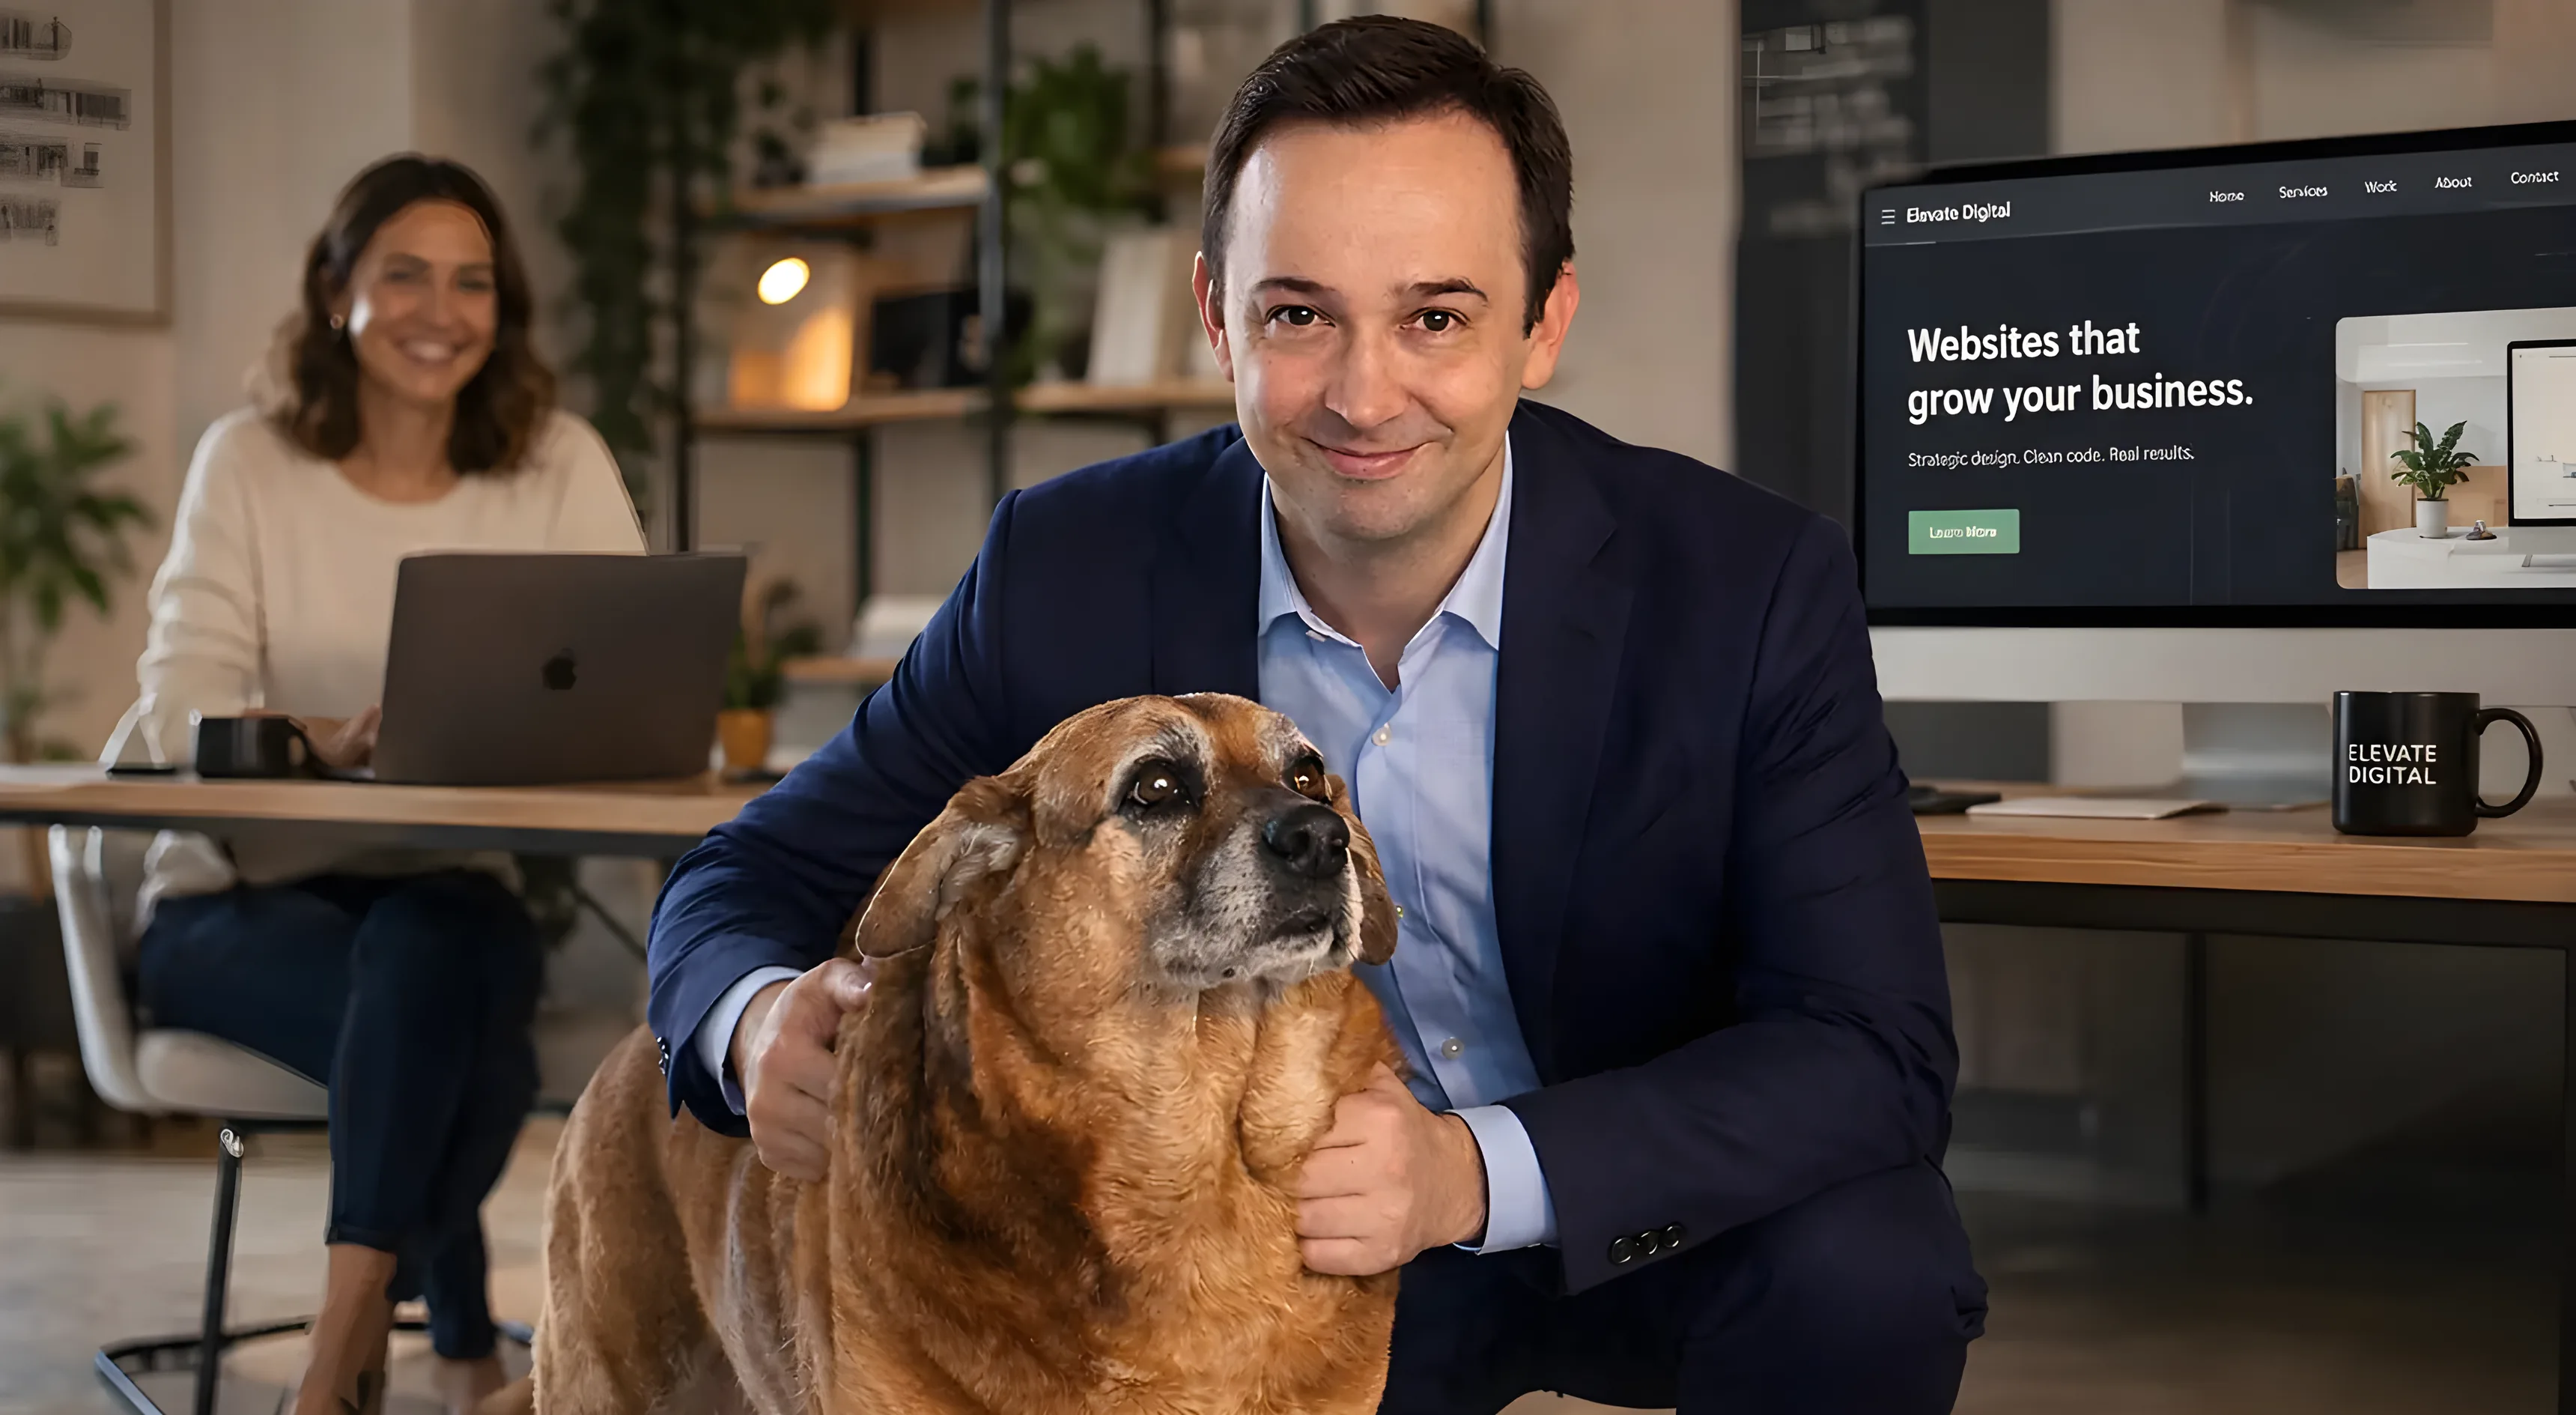
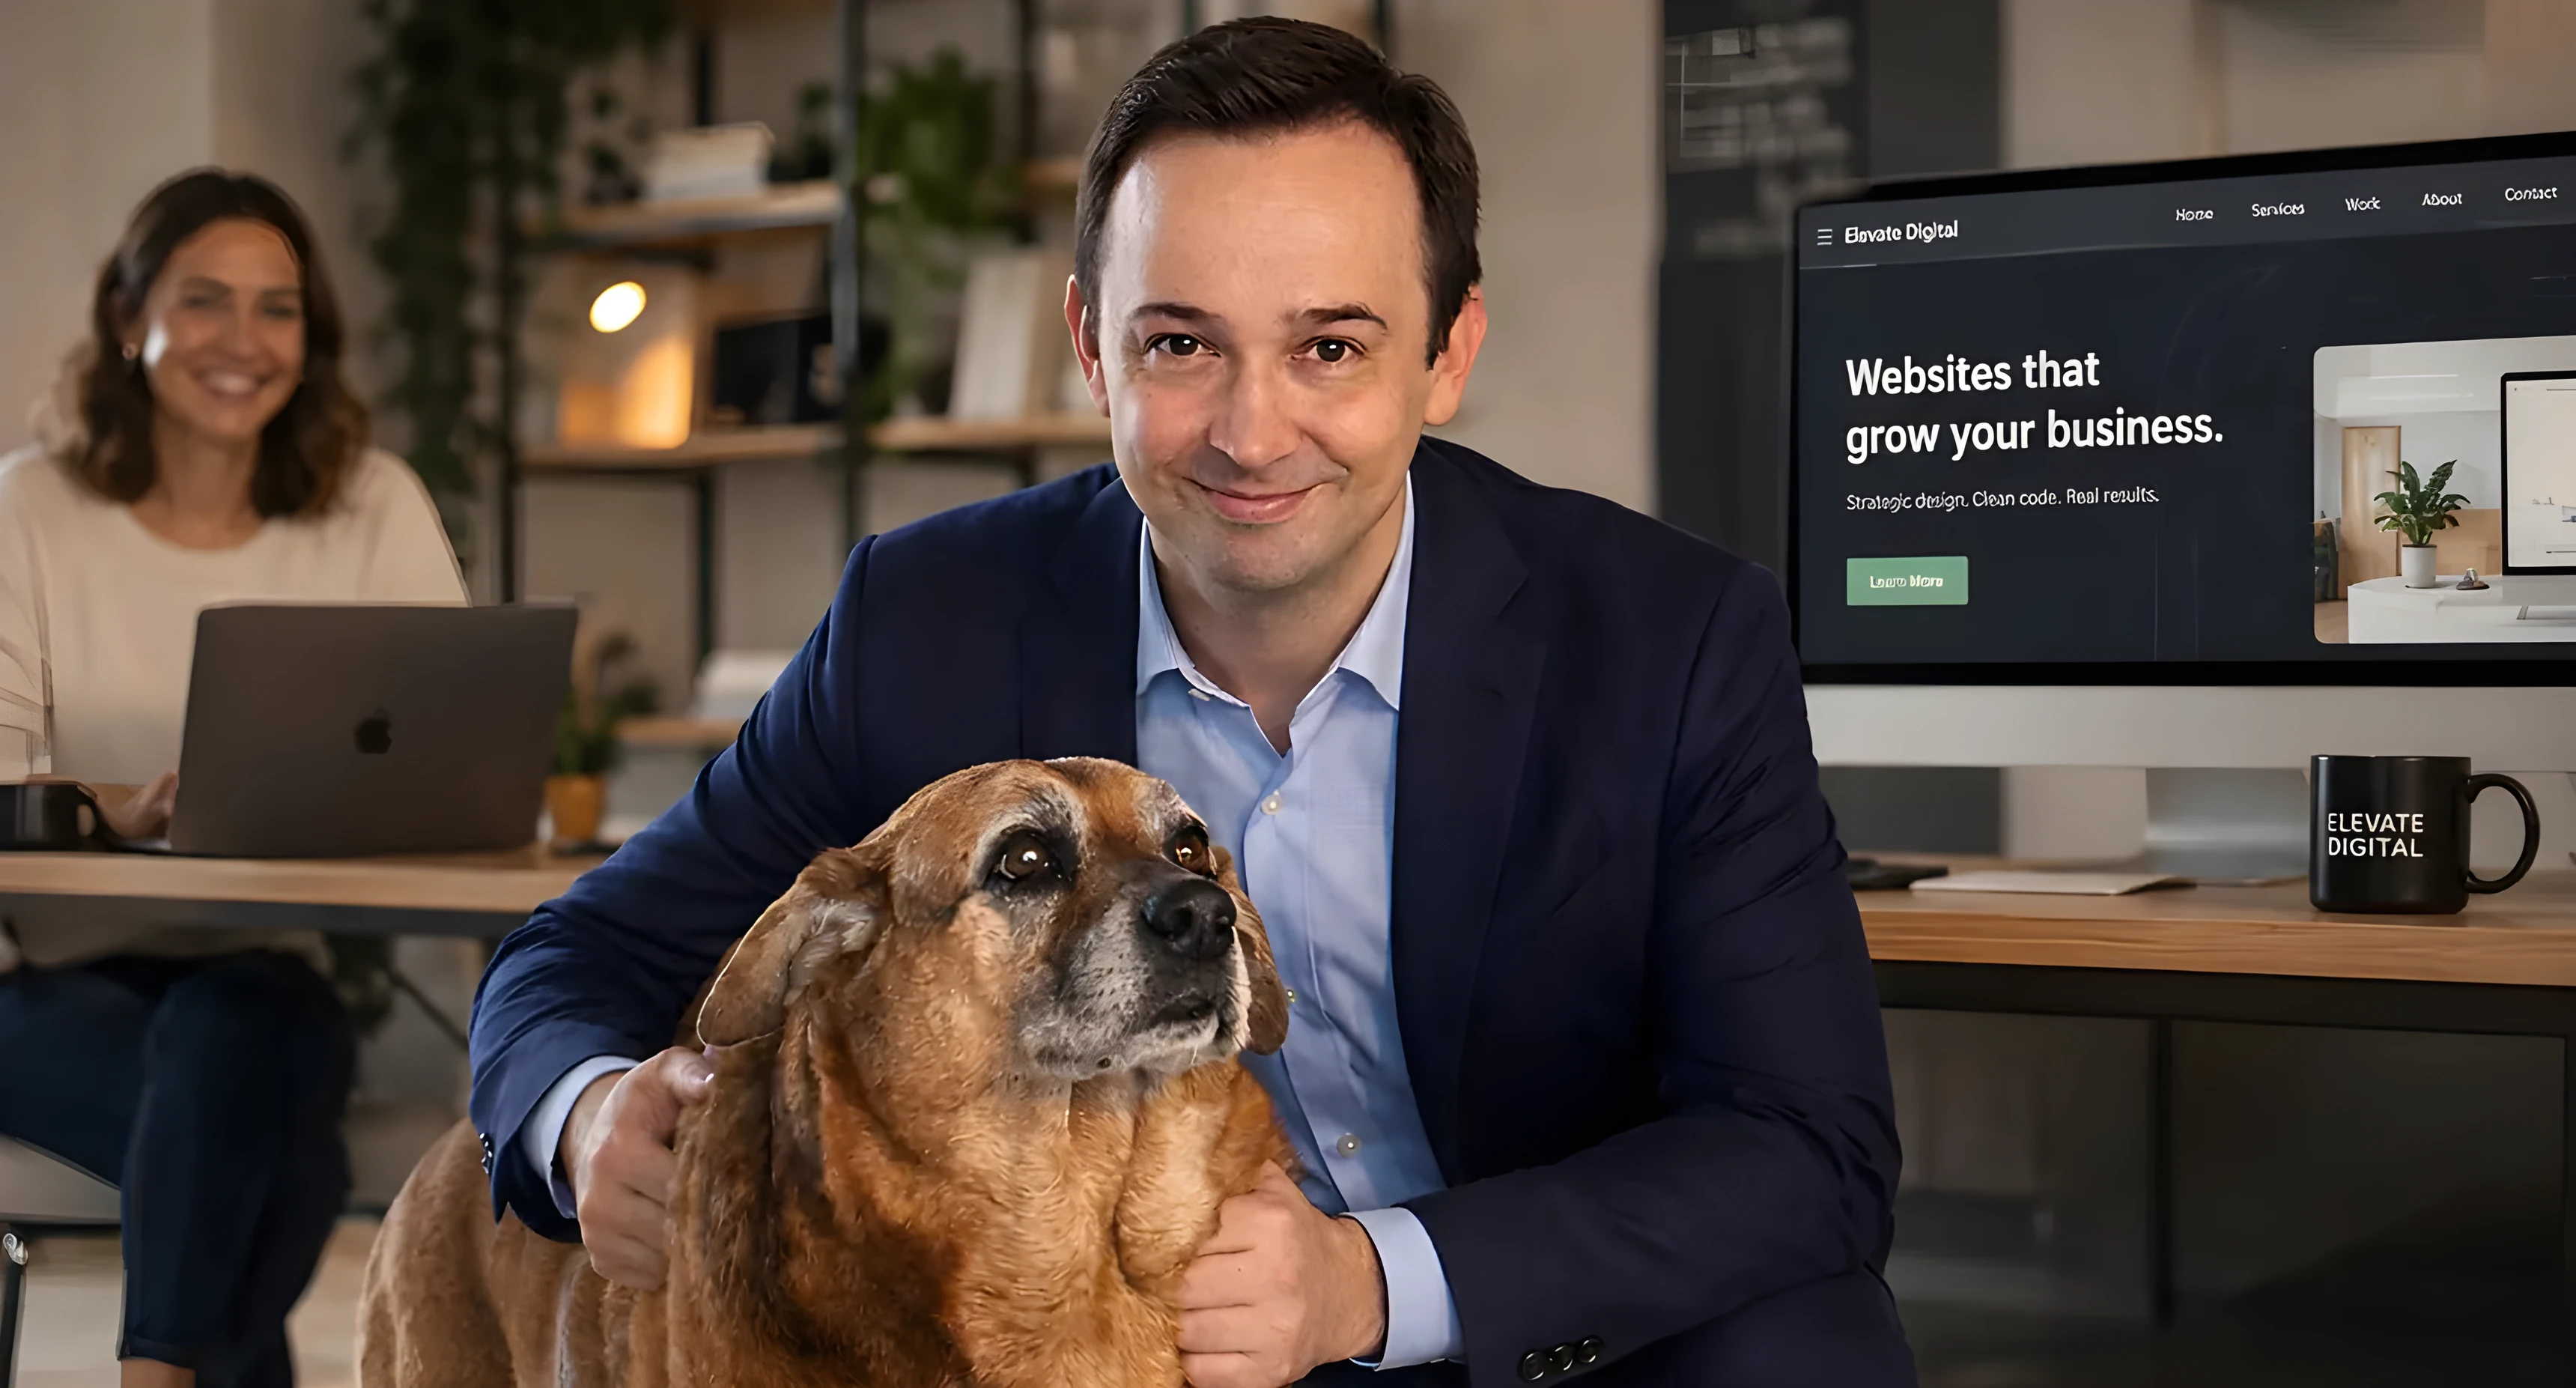
perf: regenerate websitehero-hd.webp from 4760px AI-upscaled source at 3440x1853 q90 — true sharpness for ultrawide

diff --git a/index.html b/index.html
@@ -402,7 +402,7 @@
 
     <!-- LCP hero images use a desktop WebP plus a tighter mobile crop -->
         <link rel="preload" as="image" href="./images/website-hero-mobile.webp?v=20260528a" fetchpriority="high" type="image/webp" media="(max-width: 1024px)">
-        <link rel="preload" as="image" href="./images/websitehero-hd.webp?v=20260529a" fetchpriority="high" type="image/webp" media="(min-width: 1900px)">
+        <link rel="preload" as="image" href="./images/websitehero-hd.webp?v=20260529b" fetchpriority="high" type="image/webp" media="(min-width: 1900px)">
         <link rel="preload" as="image" href="./images/websitehero.webp?v=20260529a" fetchpriority="high" type="image/webp" media="(min-width: 1025px) and (max-width: 1899px)">
     <link rel="preload" as="image" href="./images/CircuitBrush3.webp" fetchpriority="low" type="image/webp" media="(min-width: 1025px)">
 
@@ -487,7 +487,7 @@
         }
         @media (min-width: 1900px) {
             .parallax-bg-far {
-                background-image: url('./images/websitehero-hd.webp?v=20260529a');
+                background-image: url('./images/websitehero-hd.webp?v=20260529b');
                 background-size: 100% auto;
                 background-position: center top;
             }